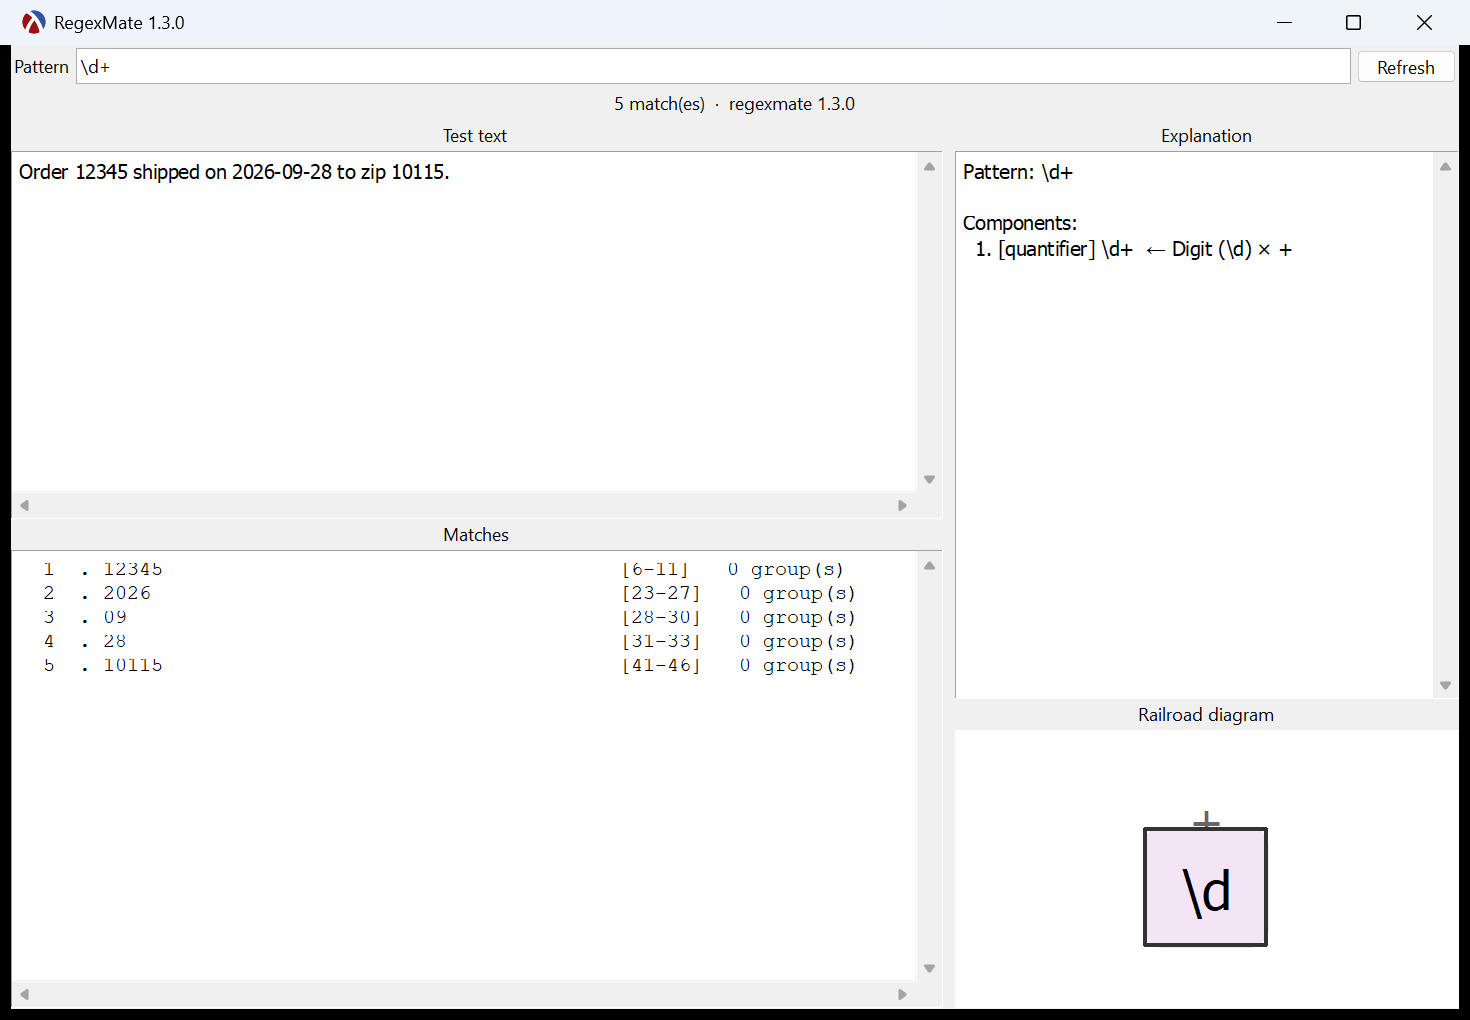
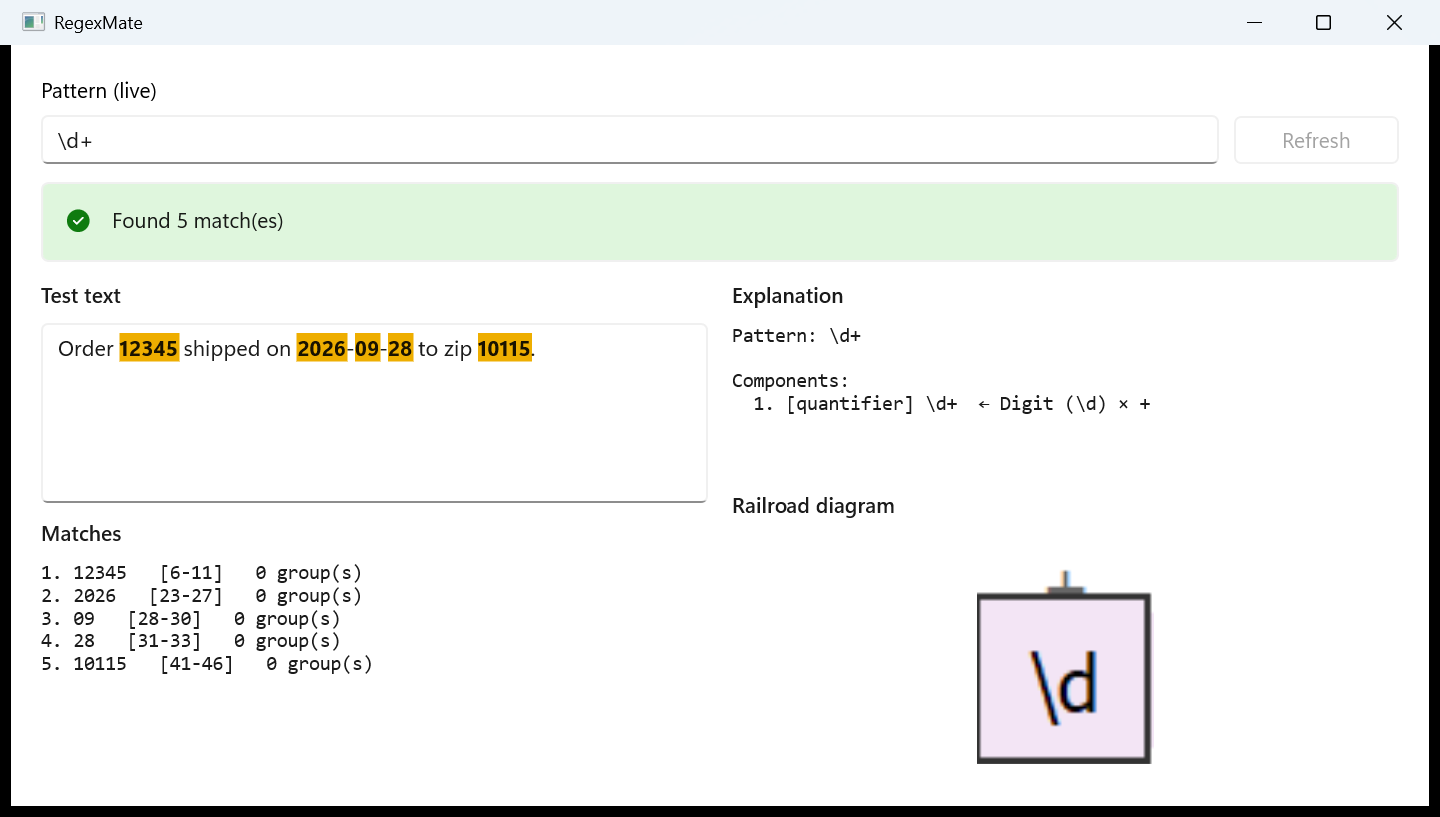
docs: sync homepage and READMEs with v0.2.1 (live refresh, highlight, winget status, real screenshot)

diff --git a/docs/index.html b/docs/index.html
@@ -42,7 +42,7 @@
     <header class="hero">
         <div class="container">
             <div class="hero-eyebrow reveal">
-                <span class="pill pill-accent">v0.2.0</span>
+                <span class="pill pill-accent">v0.2.1</span>
                 <span class="pill" data-en="Windows · Linux · macOS" data-zh="Windows · Linux · macOS">Windows · Linux · macOS</span>
                 <span class="pill">MIT</span>
             </div>
@@ -140,9 +140,9 @@
                 <div class="cell cell--wide reveal">
                     <p class="cell-tag" data-en="Native" data-zh="原生">Native</p>
                     <h3 data-en="A desktop app, not a wrapper" data-zh="桌面应用，不是套壳">A desktop app, not a wrapper</h3>
-                    <p data-en="Windows releases ship <code>regexmate-gui</code> — a native WinUI 3 app: pattern on top, matches and explanation beside a live railroad diagram. Same core as the CLI, embedded in the process — no server, no Electron."
-                       data-zh="Windows 发布包带 <code>regexmate-gui</code>——原生 WinUI 3 应用：上方输入正则，匹配与解释旁是实时铁路图。与 CLI 同一核心、进程内嵌——无服务、无 Electron。">
-                        Windows releases ship <code>regexmate-gui</code> — a native WinUI 3 app: pattern on top, matches and explanation beside a live railroad diagram. Same core as the CLI, embedded in the process — no server, no Electron.
+                    <p data-en="Windows releases ship <code>regexmate-gui</code> — a native WinUI 3 app that re-evaluates as you type: matches highlighted inside your sample text, explanation and live railroad diagram beside it. Same core as the CLI, embedded in the process — no server, no Electron."
+                       data-zh="Windows 发布包带 <code>regexmate-gui</code>——原生 WinUI 3 应用，边输入边求值：匹配直接高亮在样本文字里，旁有解释与实时铁路图。与 CLI 同一核心、进程内嵌——无服务、无 Electron。">
+                        Windows releases ship <code>regexmate-gui</code> — a native WinUI 3 app that re-evaluates as you type: matches highlighted inside your sample text, explanation and live railroad diagram beside it. Same core as the CLI, embedded in the process — no server, no Electron.
                     </p>
                     <div class="cell-visual">
 <div class="out"><span class="dim">$</span> tar -tf regexmate-macos.tar.gz
@@ -162,7 +162,7 @@ lib/</div>
                     <div class="cell-visual">
 <div class="out"><span class="dim">$</span> regexmate update
 <span class="dim">Verifying checksum…</span>
-<span class="ok">Updated to v0.2.0.</span></div>
+<span class="ok">Updated to v0.2.1.</span></div>
                     </div>
                 </div>
 
@@ -264,7 +264,7 @@ regexmate schema</div>
             <div class="install-grid">
                 <div class="install-col reveal">
                     <h3 data-en="Binary" data-zh="二进制">Binary</h3>
-                    <p data-en="Windows, Linux and macOS. Unzip and run — no runtime needed." data-zh="Windows、Linux、macOS。解压即用——免运行时。">Windows, Linux and macOS. Unzip and run — no runtime needed.</p>
+                    <p data-en="Windows, Linux and macOS. Unzip and run — no runtime needed. Windows also gets a single-file <code>regexmate-standalone-*.exe</code>, or <code>winget install TuringLambdaAI.RegexMate</code> once reviewed." data-zh="Windows、Linux、macOS。解压即用——免运行时。Windows 另有单文件 <code>regexmate-standalone-*.exe</code>，winget 审核通过后可直接 <code>winget install</code>。">Windows, Linux and macOS. Unzip and run — no runtime needed. Windows also gets a single-file <code>regexmate-standalone-*.exe</code>, or <code>winget install TuringLambdaAI.RegexMate</code> once reviewed.</p>
                     <a class="btn btn-primary" href="https://github.com/turinglambdaai/regexmate/releases" data-en="Download" data-zh="下载">Download</a>
                 </div>
                 <div class="install-col reveal">
@@ -297,7 +297,7 @@ raco exe -o regexmate main.rkt</code>
             <div class="next-rows">
                 <div class="next-row reveal">
                     <span class="tag" data-en="next" data-zh="下一步">next</span>
-                    <span data-en="winget and AUR publication — manifests are ready in the repository, awaiting public review" data-zh="winget 与 AUR 发布——manifest 已备好在仓库，待公开评审">winget and AUR publication — manifests are ready in the repository, awaiting public review</span>
+                    <span data-en="winget submission under review (microsoft/winget-pkgs#444020) · AUR PKGBUILD ready, awaiting an AUR account" data-zh="winget 提交审核中（microsoft/winget-pkgs#444020）· AUR PKGBUILD 已备好，待注册账号">winget submission under review (microsoft/winget-pkgs#444020) · AUR PKGBUILD ready, awaiting an AUR account</span>
                 </div>
                 <div class="next-row reveal">
                     <span class="tag" data-en="next" data-zh="下一步">next</span>

diff --git a/README.md b/README.md
@@ -90,7 +90,11 @@ SVG saved to: diagram.svg
 
 ## Desktop GUI
 
-The Windows release archive contains `regexmate-gui` — a **native WinUI 3 application** on the same Racket core (embedded via [Rivet](https://github.com/turinglambdaai/rivet), no WebView, no Electron): type a pattern, see matches with absolute spans, the plain-language explanation and the railroad diagram live. macOS (SwiftUI) and Linux (GTK4) GUI hosts are planned; the CLI covers those platforms today.
+The Windows release archive contains `regexmate-gui` — a **native WinUI 3 application** on the same Racket core (embedded via [Rivet](https://github.com/turinglambdaai/rivet), no WebView, no Electron). Type a pattern, re-evaluate as you type, see matches highlighted inside your sample text, with the plain-language explanation and the railroad diagram live:
+
+![RegexMate desktop GUI](docs/assets/gui-window.png)
+
+macOS (SwiftUI) and Linux (GTK4) GUI hosts are planned; the CLI covers those platforms today.
 
 ## Self-update
 

diff --git a/README.zh-CN.md b/README.zh-CN.md
@@ -105,7 +105,11 @@ Updated to v1.2.0. Run `regexmate --version` to confirm.
 
 ## 桌面 GUI
 
-Windows 发布包里带有 `regexmate-gui`——**原生 WinUI 3 应用**，跑在同一套 Racket 核心上（经 [Rivet](https://github.com/turinglambdaai/rivet) 嵌入，无 WebView、无 Electron）：输入正则，实时看到匹配与绝对区间、人话解释和铁路图。macOS（SwiftUI）与 Linux（GTK4）原生宿主在计划中，当前这两个平台由 CLI 覆盖。
+Windows 发布包里带有 `regexmate-gui`——**原生 WinUI 3 应用**，跑在同一套 Racket 核心上（经 [Rivet](https://github.com/turinglambdaai/rivet) 嵌入，无 WebView、无 Electron）。输入正则边打边算，匹配直接高亮在样本文字里，人话解释与铁路图实时呈现：
+
+![RegexMate 桌面 GUI](docs/assets/gui-window.png)
+
+macOS（SwiftUI）与 Linux（GTK4）原生宿主在计划中，当前这两个平台由 CLI 覆盖。
 
 ## Agent 工作流
 
